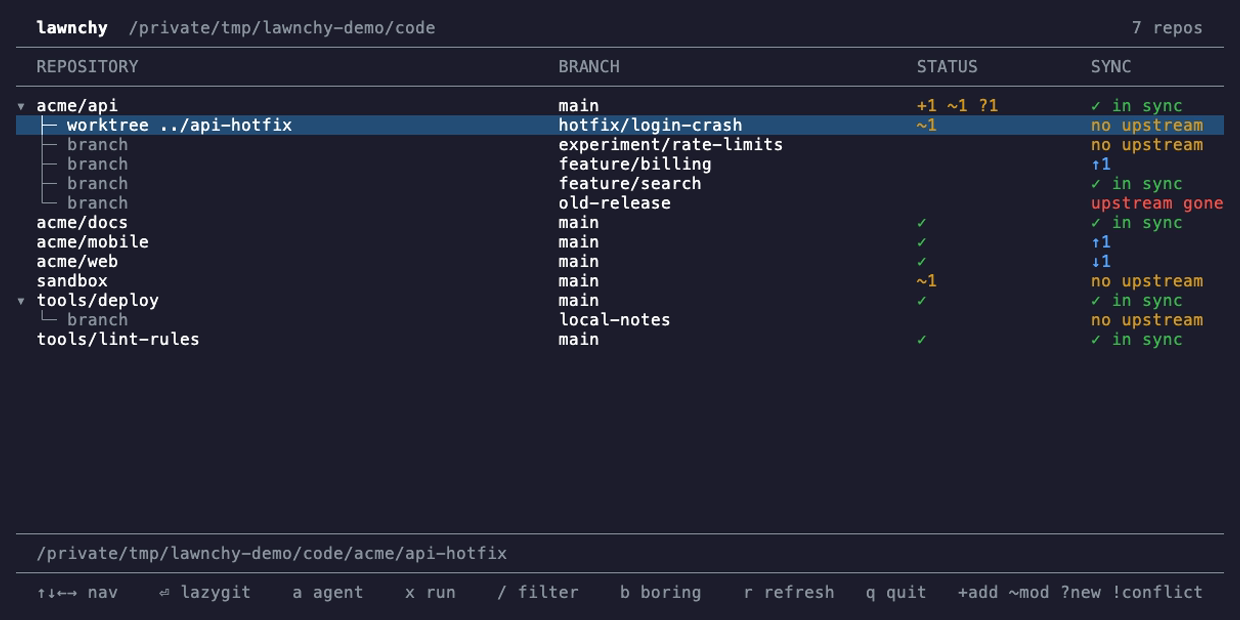
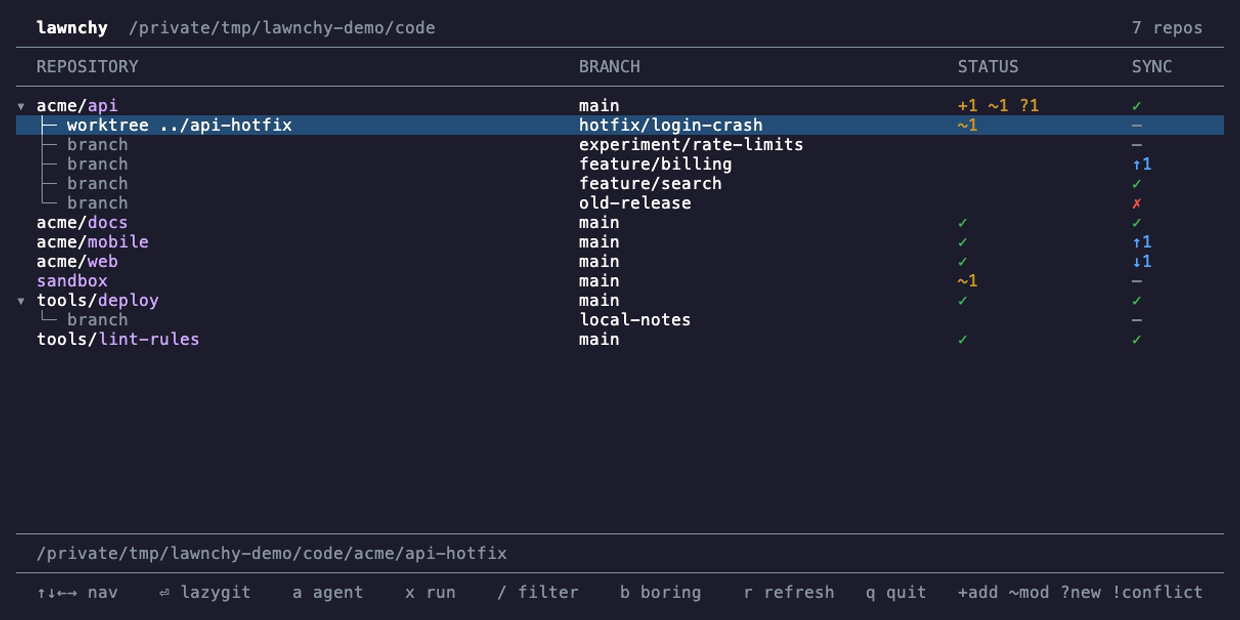
Color repo names and compact the sync column
Show a repo's last path segment in purple, the owner segment in the
default text color and any folders above it dimmed, so names are easier
to scan. Purple is new to the palette because the existing colors all
report a status.

Replace the sync column's words with icons: a check for in sync, a muted
em dash for no upstream and a red cross for upstream gone. Ahead/behind
counts are unchanged. The detail line now says when an upstream is gone,
since the icon alone no longer does.

diff --git a/test/app.test.tsx b/test/app.test.tsx
@@ -6,7 +6,7 @@ import { testRender } from "@opentui/react/test-utils"
 import { App } from "../src/App.tsx"
 import type { Agent, AgentConfig, LaunchableConfig } from "../src/config.ts"
 import type { Branch, Repo, Sync } from "../src/git.ts"
-import { buildRows, COLORS, columnWidths, compileFilter, fit, isBoring, scrollOffset, shortenStart, spreadEvenly } from "../src/rows.ts"
+import { buildRows, COLORS, columnWidths, compileFilter, fit, isBoring, nameParts, type Row, scrollOffset, shortenStart, spreadEvenly } from "../src/rows.ts"
 import { makeRepo, makeTemp, sh } from "./helpers.ts"
 
 // Git finishes outside any act() scope, so React would warn about every status update.
@@ -64,7 +64,7 @@ test("renders repos with worktree and branch sub-rows, and folds them", async ()
   expect(frame).toContain("2 repos")
   expect(frame).toContain("▾ alpha")
   expect(frame).toMatch(/├─ worktree \.\.\/alpha-wt\s+wt-branch\s+\?1/)
-  expect(frame).toMatch(/└─ branch\s+idle\s+no upstream/)
+  expect(frame).toMatch(/└─ branch\s+idle\s+—/)
   expect(frame).toMatch(/group\/beta\s+main\s+~1/)
   // Repos with no extra worktrees or branches have no children, and the current
   // branch of the main checkout lives on the repo row rather than a sub-row.
@@ -97,7 +97,7 @@ test("keeps the trunk on the repo row when the checkout is on another branch", a
 
   setup = await testRender(<App root={dir} />, { width: 110, height: 12 })
   const frame = await waitForFrame((f) => f.includes("feature") && !f.includes("scanning"))
-  expect(frame).toMatch(/▾ repo\s+main\s+no upstream/)
+  expect(frame).toMatch(/▾ repo\s+main\s+—/)
   expect(frame).toMatch(/└─ worktree \.\s+feature\s+~1/)
   expect(frame).toContain(`not checked out  ${repo}`)
 })
@@ -152,14 +152,40 @@ test("sync states use the same text and colours on checkouts and branches", () =
     return { checkout: repoRow!.sync, branch: branchRow!.sync }
   }
 
-  const inSync = { text: "✓ in sync", color: COLORS.ok }
+  const inSync = { text: "✓", color: COLORS.ok }
   expect(rowsFor(sync({}))).toEqual({ checkout: inSync, branch: inSync })
-  const none = { text: "no upstream", color: COLORS.warn }
+  const none = { text: "—", color: COLORS.dim }
   expect(rowsFor(sync({ upstream: null }))).toEqual({ checkout: none, branch: none })
-  const gone = { text: "upstream gone", color: COLORS.bad }
+  const gone = { text: "✗", color: COLORS.bad }
   expect(rowsFor(sync({ gone: true }))).toEqual({ checkout: gone, branch: gone })
   const arrows = { text: "↑2 ↓1", color: COLORS.info }
   expect(rowsFor(sync({ ahead: 2, behind: 1 }))).toEqual({ checkout: arrows, branch: arrows })
+})
+
+test("the detail line puts sync problems into words", () => {
+  const detailsFor = (sync: Sync, kind: "ok" | "idle" = "ok") => {
+    const status =
+      kind === "idle"
+        ? ({ kind, sync } as const)
+        : ({ kind, branch: "main", oid: "abc", staged: 0, modified: 0, untracked: 0, conflicted: 0, sync } as const)
+    const repo: Repo = {
+      path: "/r/a",
+      branch: "main",
+      statusPath: "/r/a",
+      status,
+      worktrees: [],
+      branches: [{ name: "x", worktreePath: null, sync }],
+    }
+    const [repoRow, branchRow] = buildRows([repo], "/r", new Set())
+    return [repoRow!.detail.text, branchRow!.detail.text]
+  }
+  const sync = { upstream: "origin/x", gone: false, ahead: 0, behind: 0 }
+
+  expect(detailsFor(sync)).toEqual(["/r/a", "x → origin/x"])
+  expect(detailsFor({ ...sync, upstream: null })).toEqual(["/r/a", "x has no upstream"])
+  expect(detailsFor({ ...sync, gone: true })).toEqual(["upstream gone  /r/a", "x → origin/x (gone)"])
+  expect(detailsFor(sync, "idle")[0]).toBe("not checked out  /r/a")
+  expect(detailsFor({ ...sync, gone: true }, "idle")[0]).toBe("not checked out, upstream gone  /r/a")
 })
 
 test("a trunk that isn't checked out has a blank status and shows its sync state", () => {
@@ -765,6 +791,80 @@ test("scrollOffset keeps the selection visible and doesn't overscroll", () => {
   expect(scrollOffset(0, 7, 5, 20)).toBe(3)
   expect(scrollOffset(10, 4, 5, 20)).toBe(4)
   expect(scrollOffset(15, 2, 5, 3)).toBe(0)
+})
+
+test("colors a repo's path by segment, unless selected", async () => {
+  await makeRepo(join(dir, "alpha"))
+  await makeRepo(join(dir, "work/group/beta"))
+  setup = await testRender(<App root={dir} />, { width: 110, height: 12 })
+  await waitForFrame((f) => f.includes("work/group/beta") && !f.includes("loading") && !f.includes("scanning"))
+
+  const spans = () => setup!.captureSpans().lines.flatMap((line) => line.spans)
+  const fgOf = (span?: { fg: { toInts(): number[] } }) => span?.fg.toInts().slice(0, 3)
+  const colorOf = (text: string) => fgOf(spans().find((s) => s.text.includes(text)))
+  const rgb = (hex: string) => [1, 3, 5].map((i) => parseInt(hex.slice(i, i + 2), 16))
+  // The unselected row's branch cell, which uses the default text color.
+  const defaultColor = fgOf(spans().findLast((s) => s.text.includes("main")))
+
+  expect(defaultColor).not.toEqual(rgb(COLORS.dim))
+  expect(colorOf("alpha")).toEqual(rgb(COLORS.selectedFg))
+  expect(colorOf("work/")).toEqual(rgb(COLORS.dim))
+  expect(colorOf("group/")).toEqual(defaultColor)
+  expect(colorOf("beta")).toEqual(rgb(COLORS.accent))
+
+  await press(() => setup!.mockInput.pressKey("j"))
+  expect(colorOf("alpha")).toEqual(rgb(COLORS.accent))
+  expect(colorOf("work/group/beta")).toEqual(rgb(COLORS.selectedFg))
+})
+
+describe("nameParts", () => {
+  const row = (kind: Row["kind"], name: string) => ({ kind, name, prefix: "", suffix: "" }) as Row
+
+  test("splits a repo into parents, owner and name", () => {
+    expect(nameParts(row("repo", "work/acme/tools/api"), 30)).toMatchObject({
+      parent: "work/acme/",
+      owner: "tools/",
+      name: "api",
+    })
+  })
+
+  test("treats the first of two segments as the owner", () => {
+    expect(nameParts(row("repo", "acme/api"), 20)).toMatchObject({ parent: "", owner: "acme/", name: "api" })
+  })
+
+  test("treats a repo with no parent folder as all name", () => {
+    expect(nameParts(row("repo", "sandbox"), 20)).toMatchObject({ parent: "", owner: "", name: "sandbox" })
+  })
+
+  test("leaves worktree names whole", () => {
+    expect(nameParts(row("worktree", "../api-hotfix"), 20)).toMatchObject({
+      parent: "",
+      owner: "",
+      name: "../api-hotfix",
+    })
+  })
+
+  test("keeps the split in place when the name is truncated", () => {
+    expect(nameParts(row("repo", "acme/some-long-name"), 10)).toMatchObject({ owner: "acme/", name: "some…" })
+  })
+
+  test("shows only owner text when truncation reaches the owner", () => {
+    expect(nameParts(row("repo", "organization/api"), 8)).toMatchObject({ parent: "", owner: "organiz…", name: "" })
+    expect(nameParts(row("repo", "acme/api"), 5)).toMatchObject({ parent: "", owner: "acme…", name: "" })
+  })
+
+  test("shows only parent text when truncation reaches the parents", () => {
+    expect(nameParts(row("repo", "some-long-parent/acme/api"), 8)).toMatchObject({
+      parent: "some-lo…",
+      owner: "",
+      name: "",
+    })
+  })
+
+  test("keeps the total width constant", () => {
+    const parts = nameParts({ ...row("repo", "work/acme/api"), prefix: "▸ ", suffix: " (2)" }, 20)
+    expect(Bun.stringWidth(parts.prefix + parts.parent + parts.owner + parts.name + parts.suffix)).toBe(20)
+  })
 })
 
 test("columnWidths fill the terminal when there's room", () => {

diff --git a/src/rows.ts b/src/rows.ts
@@ -6,6 +6,8 @@ export const COLORS = {
   warn: "#d29922",
   bad: "#f85149",
   info: "#58a6ff",
+  /** The repo's own name. Separate from the colors above, which all report a status. */
+  accent: "#d2a8ff",
   dim: "#8b949e",
   selectedBg: "#264f78",
   selectedFg: "#ffffff",
@@ -17,9 +19,9 @@ export interface Cell {
   color?: string
 }
 
-const IN_SYNC: Cell = { text: "✓ in sync", color: COLORS.ok }
-const NO_UPSTREAM: Cell = { text: "no upstream", color: COLORS.warn }
-const UPSTREAM_GONE: Cell = { text: "upstream gone", color: COLORS.bad }
+const IN_SYNC: Cell = { text: "✓", color: COLORS.ok }
+const NO_UPSTREAM: Cell = { text: "—", color: COLORS.dim }
+const UPSTREAM_GONE: Cell = { text: "✗", color: COLORS.bad }
 
 export interface Row {
   key: string
@@ -133,8 +135,9 @@ function detailCell(path: string, status: CheckoutStatus): Cell {
   // Message first: a long path must not push it past the edge of the line.
   if (status.kind === "error") return { text: `${status.message}  ${path}`, color: COLORS.bad }
   if (status.kind === "missing") return { text: `worktree directory is missing  ${path}`, color: COLORS.bad }
-  if (status.kind === "idle") return { text: `not checked out  ${path}`, color: COLORS.dim }
-  return { text: path, color: COLORS.dim }
+  const gone = (status.kind === "ok" || status.kind === "idle") && status.sync.gone
+  const notes = [status.kind === "idle" && "not checked out", gone && "upstream gone"].filter(Boolean).join(", ")
+  return { text: notes ? `${notes}  ${path}` : path, color: COLORS.dim }
 }
 
 function openPath(path: string, status: CheckoutStatus): string | null {
@@ -227,7 +230,9 @@ export function buildRows(repos: Repo[], root: string, collapsed: ReadonlySet<st
         status: { text: "" },
         sync: syncStateCell(branch.sync),
         detail: {
-          text: branch.sync.upstream ? `${branch.name} → ${branch.sync.upstream}` : `${branch.name} has no upstream`,
+          text: branch.sync.upstream
+            ? `${branch.name} → ${branch.sync.upstream}${branch.sync.gone ? " (gone)" : ""}`
+            : `${branch.name} has no upstream`,
           color: COLORS.dim,
         },
         openPath: repo.path,
@@ -286,7 +291,8 @@ export function spreadEvenly(items: string[], width: number): string {
 }
 
 const STATUS_WIDTH = 16
-const SYNC_WIDTH = 13
+/** Fits "↑999 ↓999". */
+const SYNC_WIDTH = 9
 const GAPS = 3
 
 export function columnWidths(total: number) {
@@ -296,12 +302,28 @@ export function columnWidths(total: number) {
   return { name, branch, status: STATUS_WIDTH, sync: SYNC_WIDTH }
 }
 
-/** Fits the prefix + name + suffix into the name column, truncating only the name. */
-export function nameParts(row: Row, width: number): { prefix: string; name: string; suffix: string } {
+/**
+ * Fits the prefix + name + suffix into the name column, truncating only the name.
+ * A repo's path is split into its parent folders, owner (second-to-last segment, as in
+ * GitHub's owner/repo) and name (last segment). The split comes from the full path, so
+ * truncation empties the later parts rather than moving them to the wrong segment.
+ */
+export function nameParts(
+  row: Row,
+  width: number,
+): { prefix: string; parent: string; owner: string; name: string; suffix: string } {
   const room = Math.max(0, width - Bun.stringWidth(row.prefix) - Bun.stringWidth(row.suffix))
-  const name = fit(row.name, room).trimEnd()
-  const padding = " ".repeat(Math.max(0, room - Bun.stringWidth(name)))
-  return { prefix: row.prefix, name, suffix: row.suffix + padding }
+  const shown = fit(row.name, room).trimEnd()
+  const padding = " ".repeat(Math.max(0, room - Bun.stringWidth(shown)))
+  const nameStart = row.kind === "repo" ? row.name.lastIndexOf("/") + 1 : 0
+  const ownerStart = nameStart > 0 ? row.name.lastIndexOf("/", nameStart - 2) + 1 : 0
+  return {
+    prefix: row.prefix,
+    parent: shown.slice(0, ownerStart),
+    owner: shown.slice(ownerStart, nameStart),
+    name: shown.slice(nameStart),
+    suffix: row.suffix + padding,
+  }
 }
 
 /** Returns the scroll offset that keeps `selected` visible with minimal movement. */

diff --git a/src/App.tsx b/src/App.tsx
@@ -55,13 +55,15 @@ function Rule({ width }: { width: number }) {
 
 function RowLine({ row, width, selected }: { row: Row; width: number; selected: boolean }) {
   const columns = columnWidths(width)
-  const { prefix, name, suffix } = nameParts(row, columns.name)
+  const { prefix, parent, owner, name, suffix } = nameParts(row, columns.name)
   const main = selected ? COLORS.selectedFg : undefined
   return (
     <box height={1} backgroundColor={selected ? COLORS.selectedBg : undefined}>
       <text wrapMode="none">
         <span fg={selected ? main : COLORS.dim}>{prefix}</span>
-        <span fg={main}>{name}</span>
+        <span fg={selected ? main : COLORS.dim}>{parent}</span>
+        <span fg={main}>{owner}</span>
+        <span fg={main ?? (row.kind === "repo" ? COLORS.accent : undefined)}>{name}</span>
         <span fg={selected ? main : COLORS.warn}>{suffix}</span>
         <span> </span>
         <span fg={main ?? row.branch.color}>{fit(row.branch.text, columns.branch)}</span>

diff --git a/CHANGELOG.md b/CHANGELOG.md
@@ -8,7 +8,9 @@ Notable changes to lawnchy. The format follows [Keep a Changelog](https://keepac
 
 - Finds every git repository under a directory and shows each one's trunk, with other worktrees and branches as sub-rows
 - Separate status and sync columns, covering working tree changes and upstream state
+- A compact sync column, using `✓`, `—`, `✗` and ahead/behind counts
 - Folding, keyboard navigation, and rescanning with `r`
+- Repository names in color, with the owner folder in the default text color and any folders above it dimmed
 - Filtering with `/`, by regular expression or plain string
 - Hiding repos with nothing to act on with `b`
 - Opening the highlighted row in lazygit with `Enter` or `o`

diff --git a/README.md b/README.md
@@ -62,10 +62,12 @@ Each folder containing a `.git` directory gets a row showing its trunk. Below it
 
 | Shown | Meaning |
 | --- | --- |
-| `✓ in sync` | Matches its upstream |
+| `✓` | Matches its upstream |
 | `↑2 ↓1` | 2 commits ahead, 1 behind |
-| `no upstream` | Nothing to compare against |
-| `upstream gone` | Its upstream branch has been deleted |
+| `—` | No upstream, so nothing to compare against |
+| `✗` | Its upstream branch has been deleted |
+
+Selecting a row with `✗` spells out the state on the detail line.
 
 ## Keys
 
